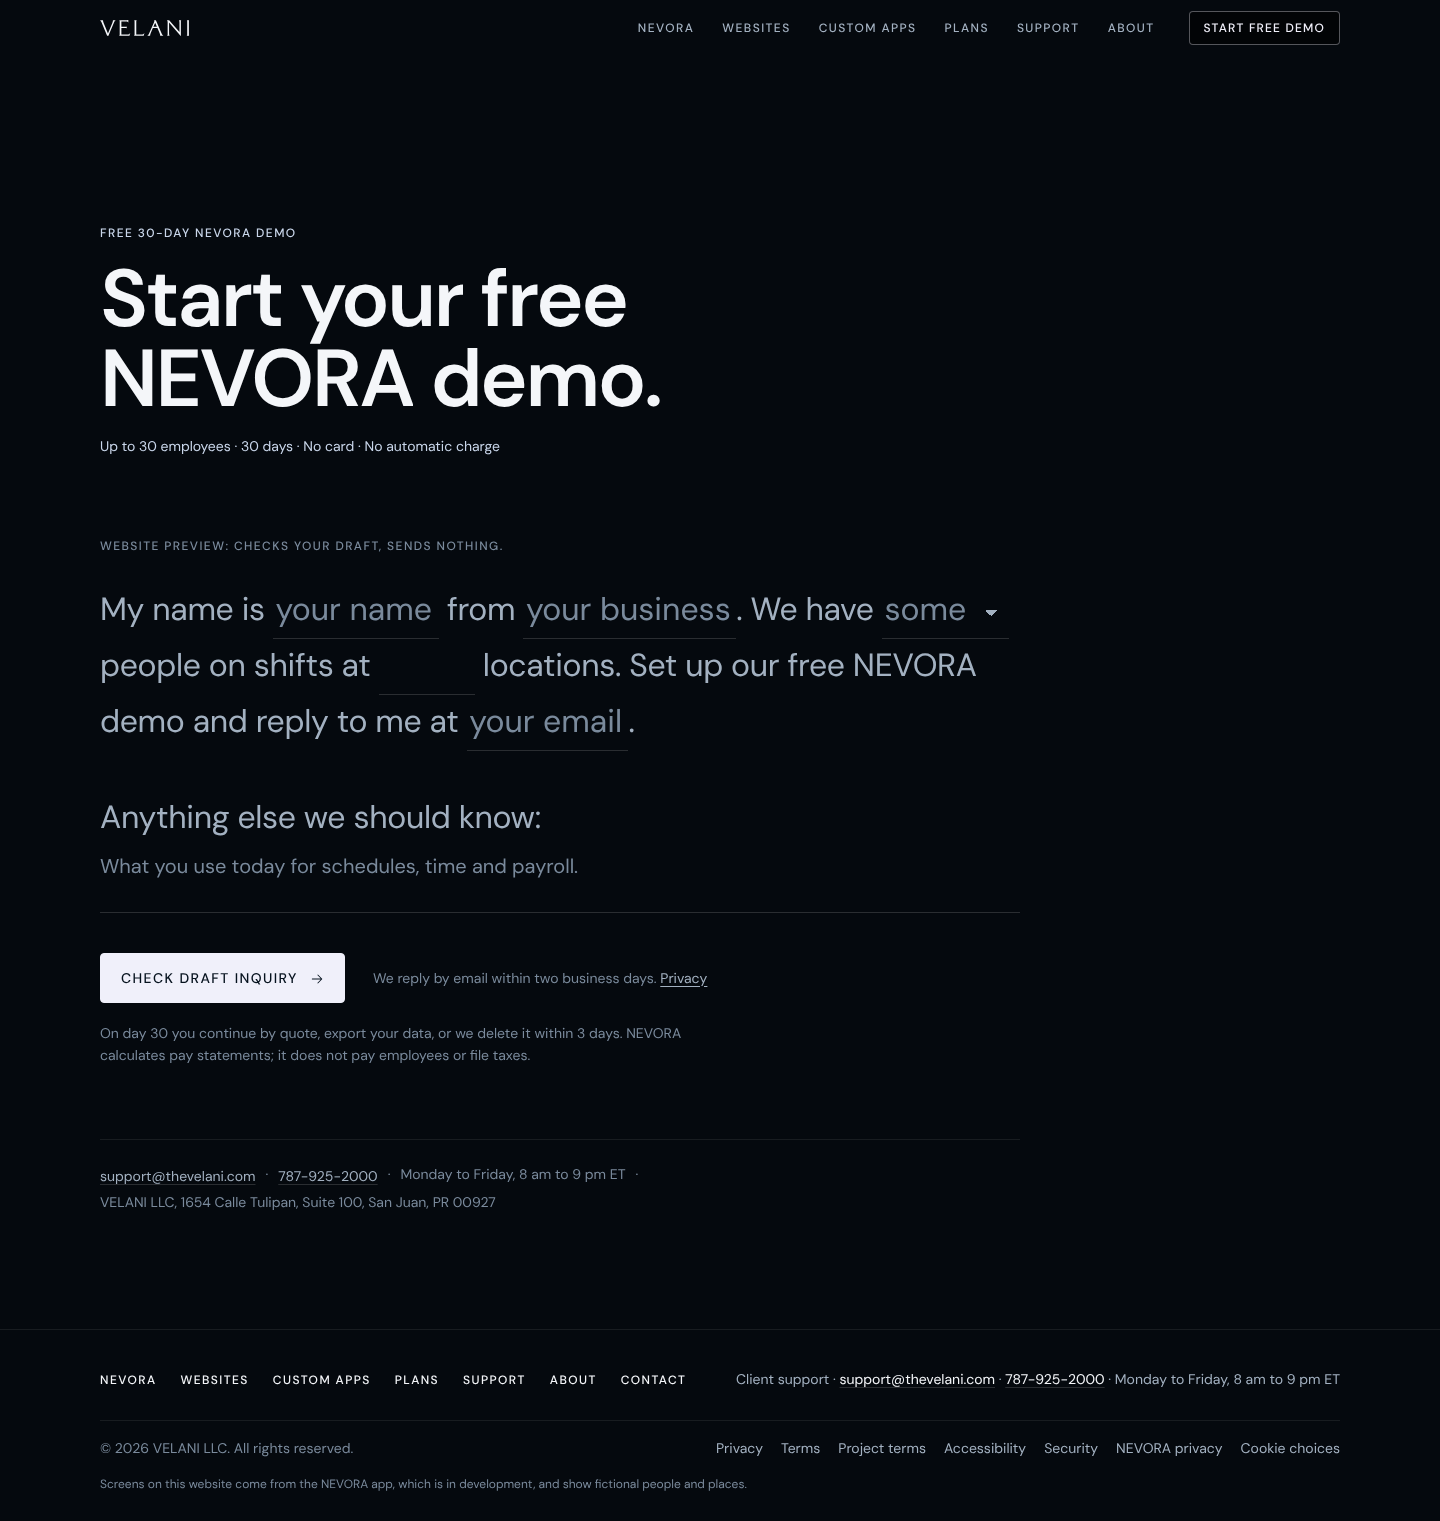
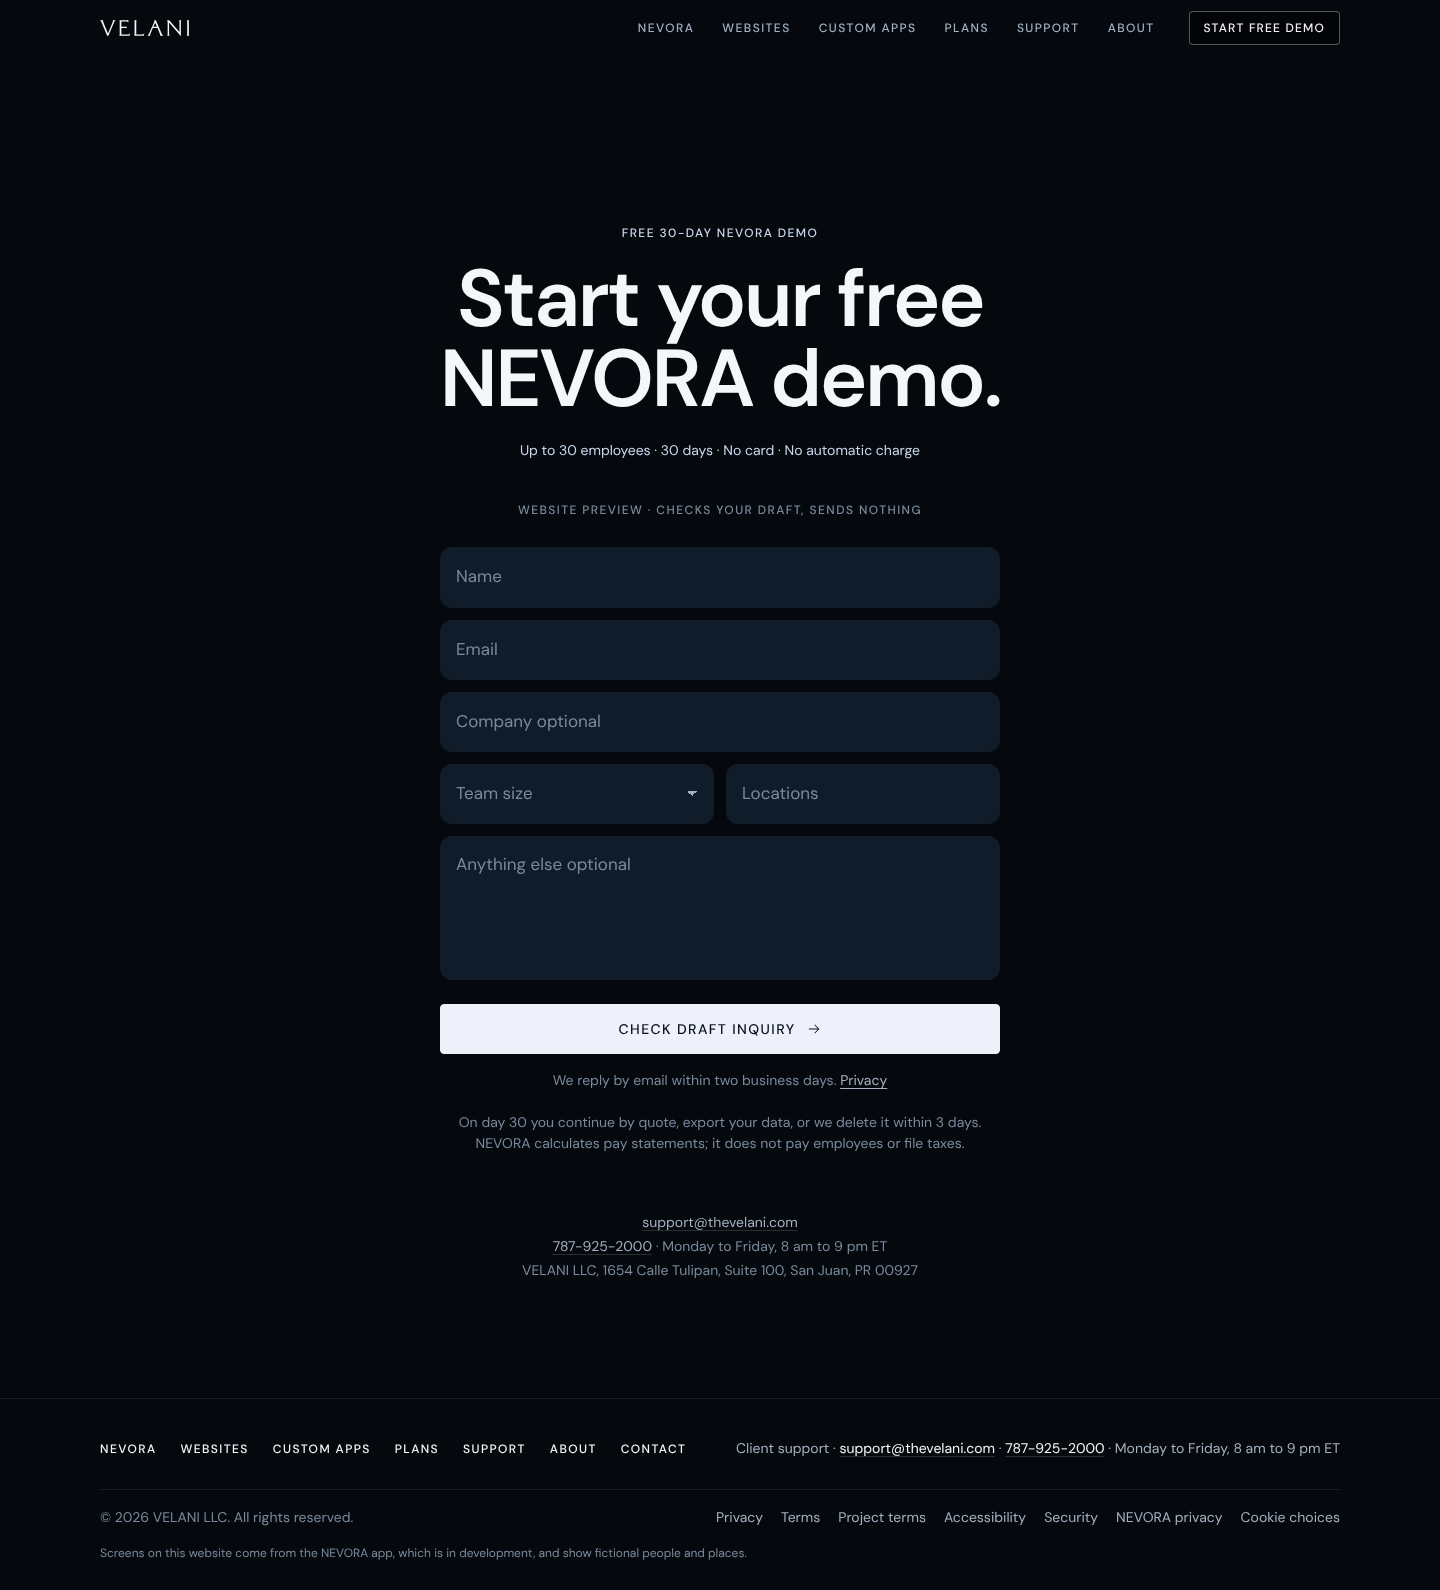
Contact page as a plain centred form: labels inside the fields, one fact line, one reply line
Claude-Session: https://claude.ai/code/session_01N2UNZFH9qfA238F2Wh9CKk

diff --git a/public/assets/velani.css b/public/assets/velani.css
@@ -372,54 +372,51 @@ html:has(main > .hpanel){scroll-padding-top:56px}
  .doc-body section>*:not(i){grid-column:1}
 }
 
-/* Contact: the inquiry is one sentence with blanks, set in display type; no card, no columns */
-.contact{padding:8px 0 var(--s2)}
-.inquiry-form,.contact-aside{max-width:920px}
+/* Contact: one centred column, large quiet fields with the label inside */
+.cform-hero{text-align:center;padding-bottom:40px}
+.cform-hero .t1{margin-inline:auto;max-width:14ch}
+.cform-hero .hfact{margin:20px auto 0;max-width:34em}
+.contact{padding:0 0 var(--s2)}
+.cform{max-width:calc(var(--pad)*2 + 560px)}
 .inquiry-form fieldset{border:0;margin:0;padding:0;min-width:0;display:block}
-.brief{position:relative;margin:0;font-size:clamp(1.5rem,2.4vw,2rem);line-height:1.65;letter-spacing:-.01em;color:var(--text-2);text-wrap:pretty}
-.brief input,.brief select,.brief-m textarea{font:inherit;color:var(--text);background:none;border:0;border-bottom:1px solid var(--line-2);border-radius:0;padding:0 .08em .06em;margin:0;vertical-align:baseline;transition:border-color .15s,box-shadow .15s;field-sizing:content}
-.brief input{min-width:3em;max-width:100%}
-.brief input::placeholder{color:var(--text-3);opacity:1}
-.brief select{appearance:none;-webkit-appearance:none;padding-right:1.15em;cursor:pointer;background-image:linear-gradient(45deg,transparent 50%,var(--text-2) 50%),linear-gradient(135deg,var(--text-2) 50%,transparent 50%);background-position:calc(100% - .55em) 55%,calc(100% - .35em) 55%;background-size:.2em .2em;background-repeat:no-repeat}
-.brief select:has(option[value=""]:checked){color:var(--text-3)}
-.brief input:focus-visible,.brief select:focus-visible,.brief-m textarea:focus-visible{outline:none;border-color:var(--text);box-shadow:0 1px 0 var(--text)}
-.brief input[aria-invalid="true"],.brief select[aria-invalid="true"],.brief-m textarea[aria-invalid="true"]{border-color:#ff9b8f;box-shadow:0 1px 0 #ff9b8f}
-.brief-ruler{position:absolute;left:0;top:0;visibility:hidden;white-space:pre;pointer-events:none;padding:0 .08em}
-.brief-m{margin-top:40px}
-.brief-l{display:block;margin-bottom:6px;font-size:clamp(1.5rem,2.4vw,2rem);line-height:1.65;letter-spacing:-.01em;color:var(--text-2)}
-.brief-m textarea{display:block;width:100%;min-height:64px;resize:none;font-size:1.25rem;line-height:1.55;padding:.1em 0 .35em;overflow:hidden}
-.brief-m textarea::placeholder{color:var(--text-3);opacity:1}
-.ferrs{margin-top:20px}
-.ferrs:has(.field-error:not(:empty)){margin-bottom:-8px}
-.field-error{font-size:0.875rem;line-height:1.5;color:#ffb3a9;margin:0}
+.ff{position:relative;margin-top:12px}
+.ff input,.ff select,.ff textarea{display:block;width:100%;min-height:58px;padding:26px 16px 10px;font:inherit;font-size:1.0625rem;line-height:1.3;color:var(--text);background:var(--panel-2);border:1px solid transparent;border-radius:var(--r2);transition:border-color .15s,box-shadow .15s;appearance:none;-webkit-appearance:none}
+.ff label{position:absolute;left:16px;top:29px;transform:translateY(-50%);font-size:1.0625rem;line-height:1;color:var(--text-3);pointer-events:none;transition:top .15s var(--out),font-size .15s var(--out),color .15s}
+.ff .opt{color:var(--text-3)}
+.ff input:focus+label,.ff input:not(:placeholder-shown)+label,.ff textarea:focus+label,.ff textarea:not(:placeholder-shown)+label,.ff.sel select:focus+label,.ff.sel select:not(:has(option[value=""]:checked))+label{top:10px;transform:none;font-size:0.75rem;color:var(--text-2)}
+.ff.area label{top:28px}
+.ff.area textarea{min-height:140px;resize:none;line-height:1.5;padding-top:30px}
+.ff.sel{background:linear-gradient(45deg,transparent 50%,var(--text-2) 50%),linear-gradient(135deg,var(--text-2) 50%,transparent 50%);background-position:calc(100% - 22px) 50%,calc(100% - 17px) 50%;background-size:5px 5px;background-repeat:no-repeat;border-radius:var(--r2)}
+.ff.sel select{background-color:transparent;position:relative;cursor:pointer;padding-right:44px}
+.ff.sel{background-color:var(--panel-2)}
+@media(hover:hover){.ff input:hover,.ff select:hover,.ff textarea:hover{border-color:rgba(255,255,255,.14)}}
+.ff input:focus-visible,.ff select:focus-visible,.ff textarea:focus-visible{outline:none;border-color:rgba(255,255,255,.5);box-shadow:0 0 0 3px rgba(244,246,249,.12)}
+.ff [aria-invalid="true"]{border-color:#ff9b8f}
+.field-error{margin:6px 16px 0;font-size:0.8125rem;line-height:1.5;color:#ffb3a9}
 .field-error:empty{display:none}
-.send{display:flex;flex-wrap:wrap;align-items:center;gap:16px 28px;margin-top:40px}
-.send .pill{cursor:pointer}
-.send .pill:disabled{opacity:.6;cursor:default}
-.send-note{margin:0;font-size:0.875rem;color:var(--text-3)}
+.frow{display:grid;grid-template-columns:1fr 1fr;gap:12px}
+.frow .ff{margin-top:12px}
+.cform .pill{width:100%;margin-top:24px;cursor:pointer}
+.cform .pill:disabled{opacity:.6;cursor:default}
+.send-note{margin:16px 0 0;text-align:center;font-size:0.875rem;color:var(--text-3)}
 .send-note a{color:var(--text-2);text-decoration:underline;text-underline-offset:3px}
-.contact .fine{max-width:46em}
-.form-legal,.form-legal p{margin:16px 0 0;font-size:0.75rem;line-height:1.5;color:var(--text-3)}.form-legal p{margin:0}.form-legal a{color:var(--text-2);text-decoration:underline;text-underline-offset:3px}
-.form-status{margin-top:20px;font-size:0.875rem;color:var(--text-2)}
+.contact .fine{margin-top:20px;text-align:center;max-width:none}
+.form-legal,.form-legal p{margin:16px 0 0;text-align:center;font-size:0.75rem;line-height:1.5;color:var(--text-3)}.form-legal p{margin:0}.form-legal a{color:var(--text-2);text-decoration:underline;text-underline-offset:3px}
+.form-status{margin-top:16px;text-align:center;font-size:0.875rem;color:var(--text-2)}
 .form-status:empty{display:none}
 .form-status[data-state="invalid"],.form-status[role="alert"]{color:#ffb3a9}
 .form-status[data-state="accepted"],.form-status[data-state="preview"]{color:var(--accent)}
-.note{margin:0 0 28px;font-size:0.75rem;font-weight:500;letter-spacing:.12em;text-transform:uppercase;color:var(--text-3)}
-.contact-aside{display:flex;flex-wrap:wrap;gap:4px 10px;margin:72px 0 0;padding-top:24px;border-top:1px solid var(--line);font-size:0.875rem;color:var(--text-3)}
-.contact-aside a{display:inline-block;min-height:24px;line-height:24px;color:var(--text-2);text-decoration:underline;text-decoration-color:var(--line-2);text-underline-offset:3px}
+.note{margin:0 0 16px;text-align:center;font-size:0.75rem;font-weight:500;letter-spacing:.12em;text-transform:uppercase;color:var(--text-3)}
+.contact-aside{margin:56px 0 0;text-align:center;font-size:0.875rem;line-height:1.7;color:var(--text-3)}
+.contact-aside a{display:inline-block;min-height:24px;color:var(--text-2);text-decoration:underline;text-decoration-color:var(--line-2);text-underline-offset:3px}
 .panel{background:var(--panel);border-radius:var(--r2);padding:clamp(24px,3.4vw,44px);box-shadow:0 0 0 1px var(--line)}
 .panel .t3{margin-bottom:12px}
 .panel>p{color:var(--text-2)}
 .panel .acts{margin-top:28px}
 .field-help.mail{margin-top:16px;font-size:0.875rem;color:var(--text-3)}
 @media(max-width:600px){
- .brief,.brief-l{font-size:1.375rem;line-height:1.7}
- .brief-m{margin-top:32px}
- .brief-m textarea{font-size:1.125rem}
- .send{margin-top:32px}
- .contact-aside{display:block;margin-top:56px}
- .contact-aside span:empty,.contact-aside span:not(:last-child):nth-child(even){display:none}
- .contact-aside>*,.contact-aside a{display:block}
+ .frow{grid-template-columns:1fr;gap:0}
+ .contact-aside{margin-top:48px}
 }
 
 /* Cookie choices */
@@ -450,7 +447,7 @@ html:has(main > .hpanel){scroll-padding-top:56px}
 .field[hidden],.form-row[hidden],[data-nevora-fields][hidden]{display:none}
 /* NEVORA enquiry variant: the boot script adds .ask-nevora before paint, so nothing changes after the page shows */
 .ask-nevora .v-d,html:not(.ask-nevora) .v-n,html:not(.ask-demo) .v-m,.ask-demo .v-n:not(.v-nm){display:none}
-.ask-nevora [data-nevora-fields]{display:inline}
+.ask-nevora [data-nevora-fields]{display:grid}
 .ask-nevora .field-topic{display:none}
 
 /* Try the time clock: a working copy of the NEVORA PIN screen. Light surface, like the real tablet. */

diff --git a/src/night/pages.css b/src/night/pages.css
@@ -138,54 +138,51 @@
  .doc-body section>*:not(i){grid-column:1}
 }
 
-/* Contact: the inquiry is one sentence with blanks, set in display type; no card, no columns */
-.contact{padding:8px 0 var(--s2)}
-.inquiry-form,.contact-aside{max-width:920px}
+/* Contact: one centred column, large quiet fields with the label inside */
+.cform-hero{text-align:center;padding-bottom:40px}
+.cform-hero .t1{margin-inline:auto;max-width:14ch}
+.cform-hero .hfact{margin:20px auto 0;max-width:34em}
+.contact{padding:0 0 var(--s2)}
+.cform{max-width:calc(var(--pad)*2 + 560px)}
 .inquiry-form fieldset{border:0;margin:0;padding:0;min-width:0;display:block}
-.brief{position:relative;margin:0;font-size:clamp(1.5rem,2.4vw,2rem);line-height:1.65;letter-spacing:-.01em;color:var(--text-2);text-wrap:pretty}
-.brief input,.brief select,.brief-m textarea{font:inherit;color:var(--text);background:none;border:0;border-bottom:1px solid var(--line-2);border-radius:0;padding:0 .08em .06em;margin:0;vertical-align:baseline;transition:border-color .15s,box-shadow .15s;field-sizing:content}
-.brief input{min-width:3em;max-width:100%}
-.brief input::placeholder{color:var(--text-3);opacity:1}
-.brief select{appearance:none;-webkit-appearance:none;padding-right:1.15em;cursor:pointer;background-image:linear-gradient(45deg,transparent 50%,var(--text-2) 50%),linear-gradient(135deg,var(--text-2) 50%,transparent 50%);background-position:calc(100% - .55em) 55%,calc(100% - .35em) 55%;background-size:.2em .2em;background-repeat:no-repeat}
-.brief select:has(option[value=""]:checked){color:var(--text-3)}
-.brief input:focus-visible,.brief select:focus-visible,.brief-m textarea:focus-visible{outline:none;border-color:var(--text);box-shadow:0 1px 0 var(--text)}
-.brief input[aria-invalid="true"],.brief select[aria-invalid="true"],.brief-m textarea[aria-invalid="true"]{border-color:#ff9b8f;box-shadow:0 1px 0 #ff9b8f}
-.brief-ruler{position:absolute;left:0;top:0;visibility:hidden;white-space:pre;pointer-events:none;padding:0 .08em}
-.brief-m{margin-top:40px}
-.brief-l{display:block;margin-bottom:6px;font-size:clamp(1.5rem,2.4vw,2rem);line-height:1.65;letter-spacing:-.01em;color:var(--text-2)}
-.brief-m textarea{display:block;width:100%;min-height:64px;resize:none;font-size:1.25rem;line-height:1.55;padding:.1em 0 .35em;overflow:hidden}
-.brief-m textarea::placeholder{color:var(--text-3);opacity:1}
-.ferrs{margin-top:20px}
-.ferrs:has(.field-error:not(:empty)){margin-bottom:-8px}
-.field-error{font-size:0.875rem;line-height:1.5;color:#ffb3a9;margin:0}
+.ff{position:relative;margin-top:12px}
+.ff input,.ff select,.ff textarea{display:block;width:100%;min-height:58px;padding:26px 16px 10px;font:inherit;font-size:1.0625rem;line-height:1.3;color:var(--text);background:var(--panel-2);border:1px solid transparent;border-radius:var(--r2);transition:border-color .15s,box-shadow .15s;appearance:none;-webkit-appearance:none}
+.ff label{position:absolute;left:16px;top:29px;transform:translateY(-50%);font-size:1.0625rem;line-height:1;color:var(--text-3);pointer-events:none;transition:top .15s var(--out),font-size .15s var(--out),color .15s}
+.ff .opt{color:var(--text-3)}
+.ff input:focus+label,.ff input:not(:placeholder-shown)+label,.ff textarea:focus+label,.ff textarea:not(:placeholder-shown)+label,.ff.sel select:focus+label,.ff.sel select:not(:has(option[value=""]:checked))+label{top:10px;transform:none;font-size:0.75rem;color:var(--text-2)}
+.ff.area label{top:28px}
+.ff.area textarea{min-height:140px;resize:none;line-height:1.5;padding-top:30px}
+.ff.sel{background:linear-gradient(45deg,transparent 50%,var(--text-2) 50%),linear-gradient(135deg,var(--text-2) 50%,transparent 50%);background-position:calc(100% - 22px) 50%,calc(100% - 17px) 50%;background-size:5px 5px;background-repeat:no-repeat;border-radius:var(--r2)}
+.ff.sel select{background-color:transparent;position:relative;cursor:pointer;padding-right:44px}
+.ff.sel{background-color:var(--panel-2)}
+@media(hover:hover){.ff input:hover,.ff select:hover,.ff textarea:hover{border-color:rgba(255,255,255,.14)}}
+.ff input:focus-visible,.ff select:focus-visible,.ff textarea:focus-visible{outline:none;border-color:rgba(255,255,255,.5);box-shadow:0 0 0 3px rgba(244,246,249,.12)}
+.ff [aria-invalid="true"]{border-color:#ff9b8f}
+.field-error{margin:6px 16px 0;font-size:0.8125rem;line-height:1.5;color:#ffb3a9}
 .field-error:empty{display:none}
-.send{display:flex;flex-wrap:wrap;align-items:center;gap:16px 28px;margin-top:40px}
-.send .pill{cursor:pointer}
-.send .pill:disabled{opacity:.6;cursor:default}
-.send-note{margin:0;font-size:0.875rem;color:var(--text-3)}
+.frow{display:grid;grid-template-columns:1fr 1fr;gap:12px}
+.frow .ff{margin-top:12px}
+.cform .pill{width:100%;margin-top:24px;cursor:pointer}
+.cform .pill:disabled{opacity:.6;cursor:default}
+.send-note{margin:16px 0 0;text-align:center;font-size:0.875rem;color:var(--text-3)}
 .send-note a{color:var(--text-2);text-decoration:underline;text-underline-offset:3px}
-.contact .fine{max-width:46em}
-.form-legal,.form-legal p{margin:16px 0 0;font-size:0.75rem;line-height:1.5;color:var(--text-3)}.form-legal p{margin:0}.form-legal a{color:var(--text-2);text-decoration:underline;text-underline-offset:3px}
-.form-status{margin-top:20px;font-size:0.875rem;color:var(--text-2)}
+.contact .fine{margin-top:20px;text-align:center;max-width:none}
+.form-legal,.form-legal p{margin:16px 0 0;text-align:center;font-size:0.75rem;line-height:1.5;color:var(--text-3)}.form-legal p{margin:0}.form-legal a{color:var(--text-2);text-decoration:underline;text-underline-offset:3px}
+.form-status{margin-top:16px;text-align:center;font-size:0.875rem;color:var(--text-2)}
 .form-status:empty{display:none}
 .form-status[data-state="invalid"],.form-status[role="alert"]{color:#ffb3a9}
 .form-status[data-state="accepted"],.form-status[data-state="preview"]{color:var(--accent)}
-.note{margin:0 0 28px;font-size:0.75rem;font-weight:500;letter-spacing:.12em;text-transform:uppercase;color:var(--text-3)}
-.contact-aside{display:flex;flex-wrap:wrap;gap:4px 10px;margin:72px 0 0;padding-top:24px;border-top:1px solid var(--line);font-size:0.875rem;color:var(--text-3)}
-.contact-aside a{display:inline-block;min-height:24px;line-height:24px;color:var(--text-2);text-decoration:underline;text-decoration-color:var(--line-2);text-underline-offset:3px}
+.note{margin:0 0 16px;text-align:center;font-size:0.75rem;font-weight:500;letter-spacing:.12em;text-transform:uppercase;color:var(--text-3)}
+.contact-aside{margin:56px 0 0;text-align:center;font-size:0.875rem;line-height:1.7;color:var(--text-3)}
+.contact-aside a{display:inline-block;min-height:24px;color:var(--text-2);text-decoration:underline;text-decoration-color:var(--line-2);text-underline-offset:3px}
 .panel{background:var(--panel);border-radius:var(--r2);padding:clamp(24px,3.4vw,44px);box-shadow:0 0 0 1px var(--line)}
 .panel .t3{margin-bottom:12px}
 .panel>p{color:var(--text-2)}
 .panel .acts{margin-top:28px}
 .field-help.mail{margin-top:16px;font-size:0.875rem;color:var(--text-3)}
 @media(max-width:600px){
- .brief,.brief-l{font-size:1.375rem;line-height:1.7}
- .brief-m{margin-top:32px}
- .brief-m textarea{font-size:1.125rem}
- .send{margin-top:32px}
- .contact-aside{display:block;margin-top:56px}
- .contact-aside span:empty,.contact-aside span:not(:last-child):nth-child(even){display:none}
- .contact-aside>*,.contact-aside a{display:block}
+ .frow{grid-template-columns:1fr;gap:0}
+ .contact-aside{margin-top:48px}
 }
 
 /* Cookie choices */
@@ -216,5 +213,5 @@
 .field[hidden],.form-row[hidden],[data-nevora-fields][hidden]{display:none}
 /* NEVORA enquiry variant: the boot script adds .ask-nevora before paint, so nothing changes after the page shows */
 .ask-nevora .v-d,html:not(.ask-nevora) .v-n,html:not(.ask-demo) .v-m,.ask-demo .v-n:not(.v-nm){display:none}
-.ask-nevora [data-nevora-fields]{display:inline}
+.ask-nevora [data-nevora-fields]{display:grid}
 .ask-nevora .field-topic{display:none}

diff --git a/public/assets/velani.js b/public/assets/velani.js
@@ -19,7 +19,6 @@ if (form) {
   if (topic === 'nevora' || topic === 'nevora-demo') {
     document.title = (topic === 'nevora-demo' ? 'Free NEVORA demo' : 'NEVORA for your team') + ' · Velani';
     fields.message.required = false;
-    fields.message.placeholder = 'What you use today for schedules, time and payroll.';
   }
   const setBusy = busy => { submitButton.disabled = busy; form.setAttribute('aria-busy', String(busy)); };
   const messages = { checking: 'Checking your draft…', preview: 'Draft checked. Nothing was sent.', invalid: 'Check the highlighted fields.', sending: 'Sending inquiry…', accepted: 'Your inquiry was submitted.', failed: 'The inquiry was not accepted. Review the form before trying again.', uncertain: 'We could not confirm the submission. It may have been accepted. Check with support@thevelani.com before sending it again.', unavailable: 'Inquiry delivery is not available.' };

diff --git a/docs/handoffs/site-pass-2026-11-03.md b/docs/handoffs/site-pass-2026-11-03.md
@@ -126,3 +126,12 @@ For a NEVORA quote or the free demo the sentence changes: "We have [some ▾] pe
 - The ui-ux-pro-max search database is not installed in this checkout (only its SKILL.md), so its guidance came from the priority table, not a database match.
 
 Checks on this build: unit 33/33, theme clean, acceptance 77/77, browser 51/51 (axe target-size on the support links fixed by a 24px line box), clipping 18/18, layout 19/19, scroll 8/8, privacy 4/4. Captures in `evidence/contact-20261103/captures/`.
+
+## Contact page, fourth pass (Jose: a normal form, made to look nice, only relevant information)
+
+The sentence form was dropped. The page is now one centred column, 560px wide: kicker, title, one fact line, then large quiet fields with the label inside the field (it lifts to the top when the field is used), a full-width button, one reply line, the demo's small print where it applies, and the support facts centred at the end. No card, no second column, no icons, no steps.
+
+- Fields: Name, Email, Company (optional), Topic; the NEVORA variants swap Topic for Team size and Locations. Message label: "What needs to work better" / "Anything else (optional)".
+- Fields are `#101c29` on the page, 58px tall, 12px radius, no border until hover or focus; errors in small text under their field; the first empty field takes focus.
+- The scripted textarea placeholder for the NEVORA variant was removed because it collided with the floating label.
+- Checks: unit 33/33, theme clean, acceptance 77/77, browser 51/51, clipping 18/18, layout 19/19, scroll 8/8, privacy 4/4. Captures in `evidence/contact-20261103/captures/`.

diff --git a/evidence/contact-20261103/README.md b/evidence/contact-20261103/README.md
@@ -21,3 +21,5 @@ Second pass (Jose: "look how cheap this looks" on the live phone page): on phone
 Theme upload: the first staging of the four changed files was declined at the permission prompt (themeFilesUpsert), so the preview theme kept the previous contact page at that point. Final build checksums: assets/velani.css 59c8a0a2b3ae4920f8432371ae5a93d1, assets/velani.js 995ff38a08e1ec8ff7c6c613a1053c97, sections/velani-contact.liquid 8e205ee66bc39b7a279da1253ab75ec8, layout/theme.liquid 77de86c47fdcab66e0451df0355f6a99. The second staging and upsert were accepted; all four read back with matching checksums (see `../precision-20261103/preview-theme-readback.txt`).
 
 Third pass (sentence form): captures replaced; all suites rerun with the same results. Theme files for upload: assets/velani.css 95503169ff86eacc1efed1283c423244, assets/velani.js 77b81844e6a81f0628857dd76c620649, sections/velani-contact.liquid 283577ec2692f37d36f65ef16768af32 (layout/theme.liquid unchanged since the previous upload).
+
+Fourth pass (plain centred form with floating labels): captures replaced; all suites rerun with the same results. Theme files for upload: assets/velani.css dd088f0a37d1b7bcd58e165d52ddd3ca, assets/velani.js e40aadc7bab5e50fdb15d872ba060379, sections/velani-contact.liquid 0ca4ce216e13c9161d98c2d9aa223a28 (layout/theme.liquid unchanged).
